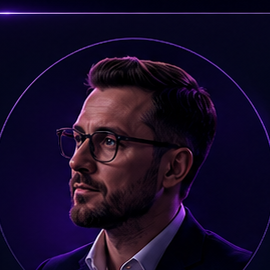
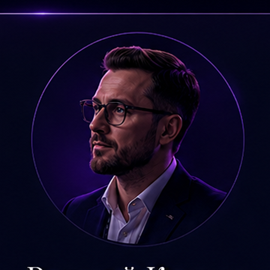
Refine speaker portraits

diff --git a/components/landing.tsx b/components/landing.tsx
@@ -111,12 +111,6 @@ function HeroStatIcon({ index }: { index: number }) {
   }
 }
 
-const speakerImageTransforms = [
-  "translateX(0%) scale(1.03)",
-  "translateX(-4%) scale(1.04)",
-  "translateX(-20%) scale(1.04)",
-] as const;
-
 function HeroMetaCard({
   icon,
   title,
@@ -178,19 +172,18 @@ function HeroVisual() {
 }
 
 function SpeakerCard({ speaker, index }: { speaker: Speaker; index: number }) {
+  const speakerImageSrc = `/speaker-${index + 1}-face.png`;
+
   return (
     <article className="group flex h-full min-h-[640px] flex-col overflow-hidden rounded-[32px] border border-white/10 bg-white/[0.045] shadow-soft backdrop-blur-2xl transition duration-300 hover:-translate-y-1 hover:border-violet-300/30 hover:bg-white/[0.06]">
       <div className="relative px-4 pb-2 pt-5">
         <div className="absolute inset-x-0 top-0 h-24 bg-[radial-gradient(circle_at_50%_0%,rgba(124,60,255,0.3),transparent_60%)]" />
-        <div className="relative mx-auto h-64 w-64 overflow-hidden rounded-full border border-white/12 bg-[radial-gradient(circle_at_32%_28%,rgba(255,255,255,0.16),rgba(124,60,255,0.3)_45%,rgba(8,7,22,0.98))] p-2.5 shadow-[0_0_0_1px_rgba(124,60,255,0.06),0_0_60px_rgba(124,60,255,0.18)] lg:h-[286px] lg:w-[286px]">
+        <div className="relative mx-auto aspect-square w-full max-w-[320px] overflow-hidden rounded-[30px] border border-white/12 bg-[radial-gradient(circle_at_32%_28%,rgba(255,255,255,0.16),rgba(124,60,255,0.24)_45%,rgba(8,7,22,0.98))] p-2.5 shadow-[0_0_0_1px_rgba(124,60,255,0.06),0_0_60px_rgba(124,60,255,0.18)] lg:max-w-[330px]">
           <Image
-            src={`/speaker-${index + 1}-face.png`}
+            src={speakerImageSrc}
             alt={speaker.name}
             fill
-            style={{
-              transform: speakerImageTransforms[index] ?? "translateX(0%) scale(1.05)",
-              transformOrigin: "center",
-            }}
+            unoptimized
             className="object-cover"
           />
         </div>